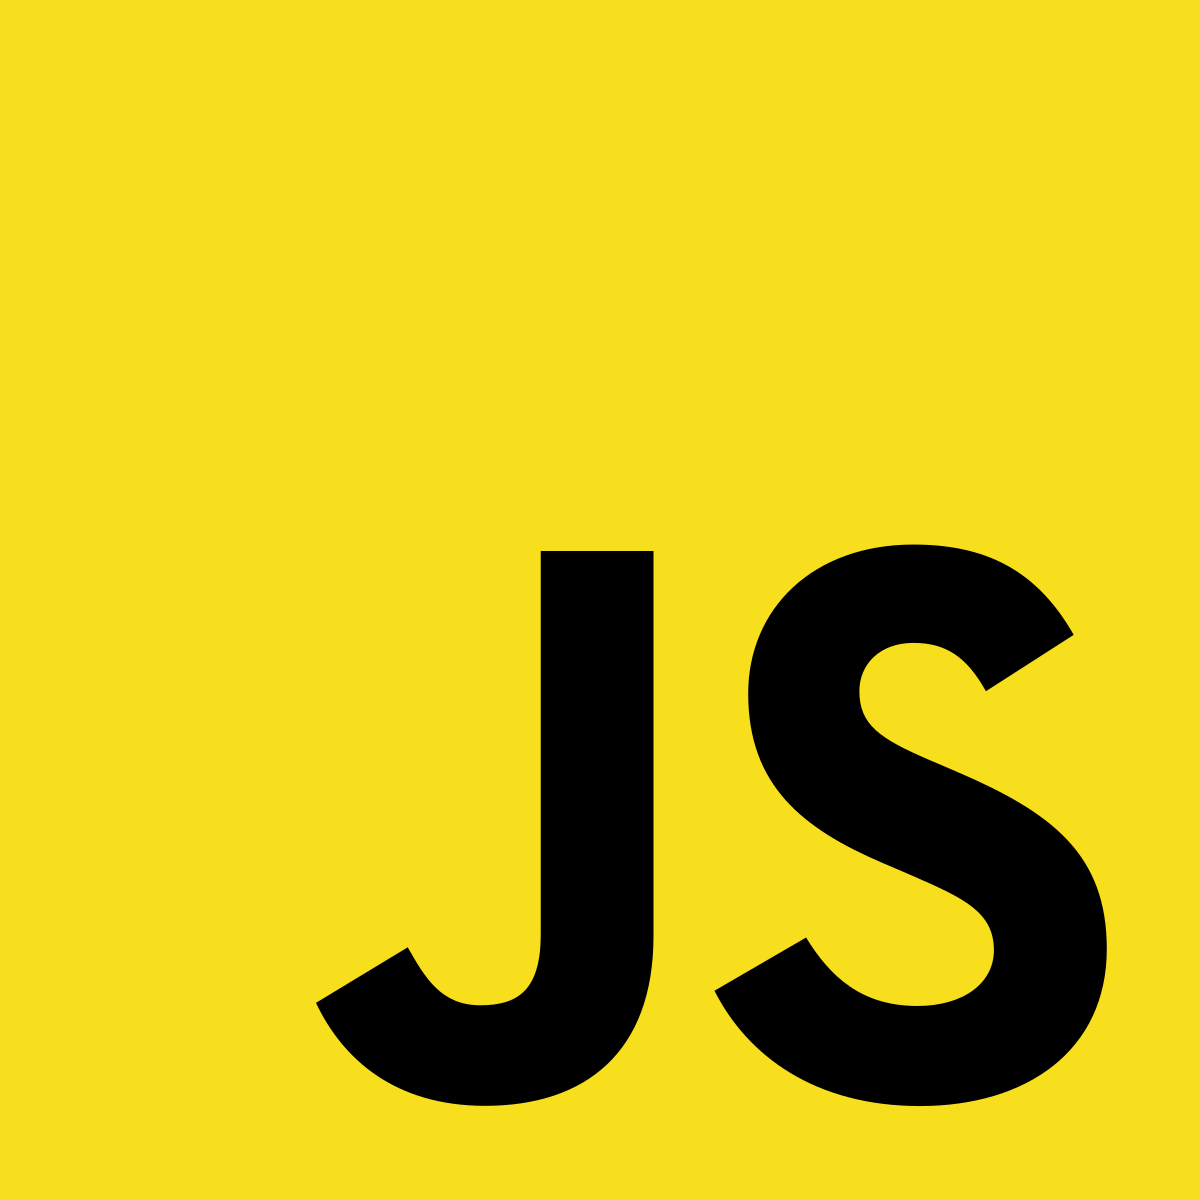
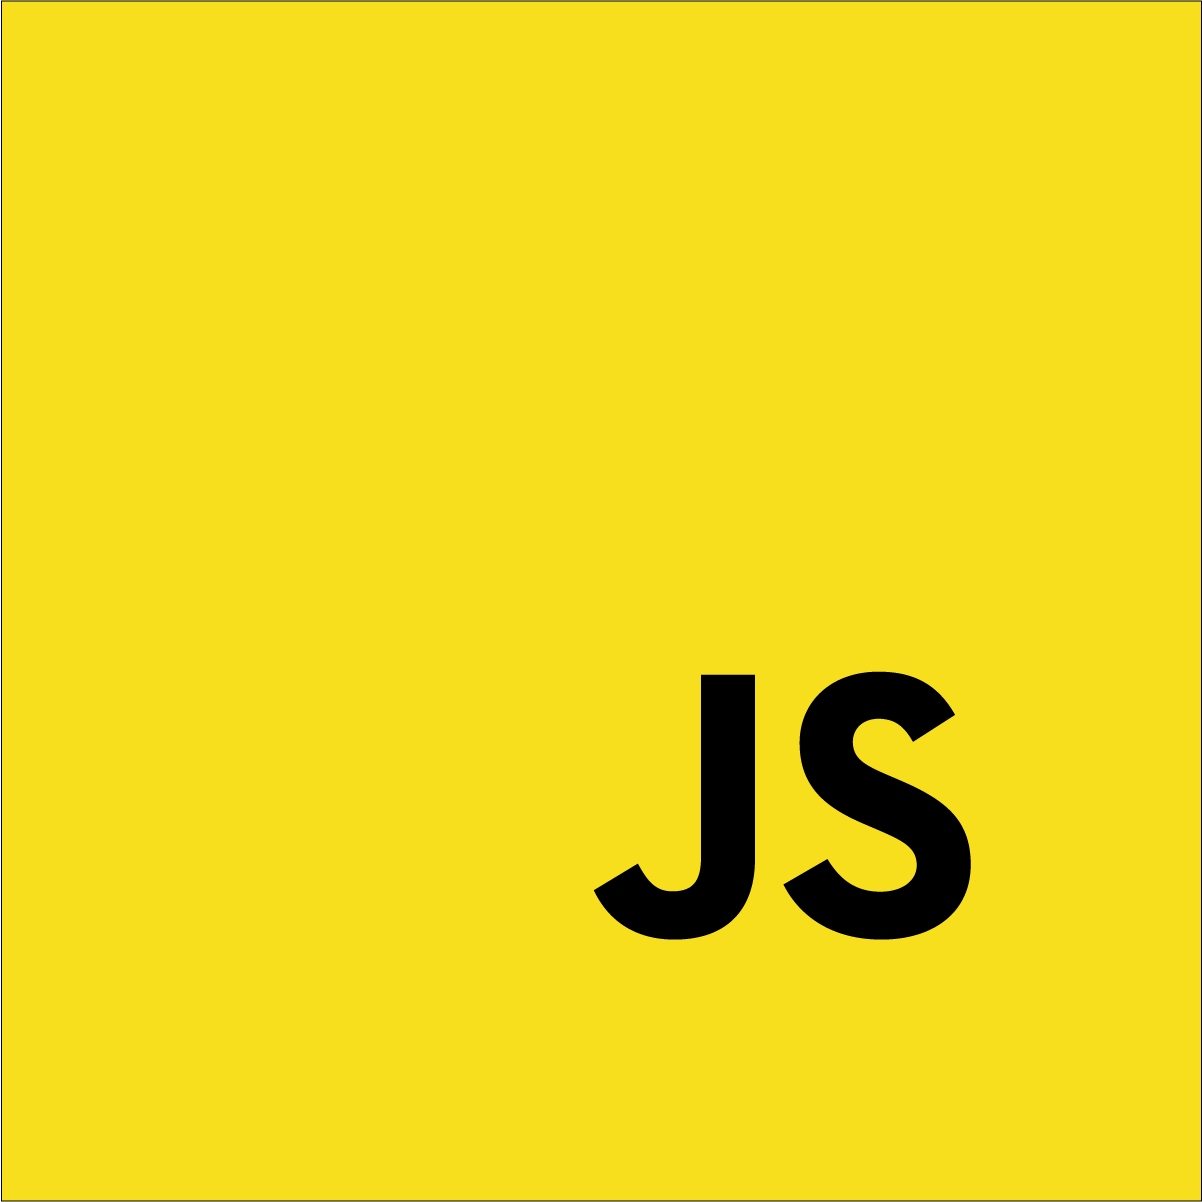
Uploading pics  / Subiendo imagenes

diff --git a/Java/index.html b/Java/index.html
@@ -31,7 +31,7 @@
 							</ul>
 						</header>
 						<div class="content">
-							<span class="image fill" data-position="center"><img src="../images/construction.jpg" alt="" /></span>
+							<span class="image fill" data-position="center"><img src="../images/java.png" alt="" /></span>
 						</div>
 					</section>
 
